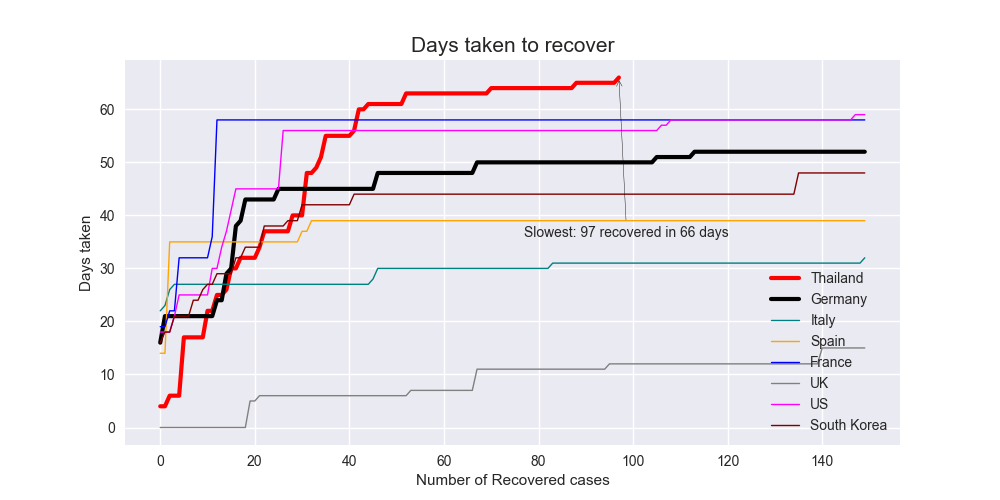
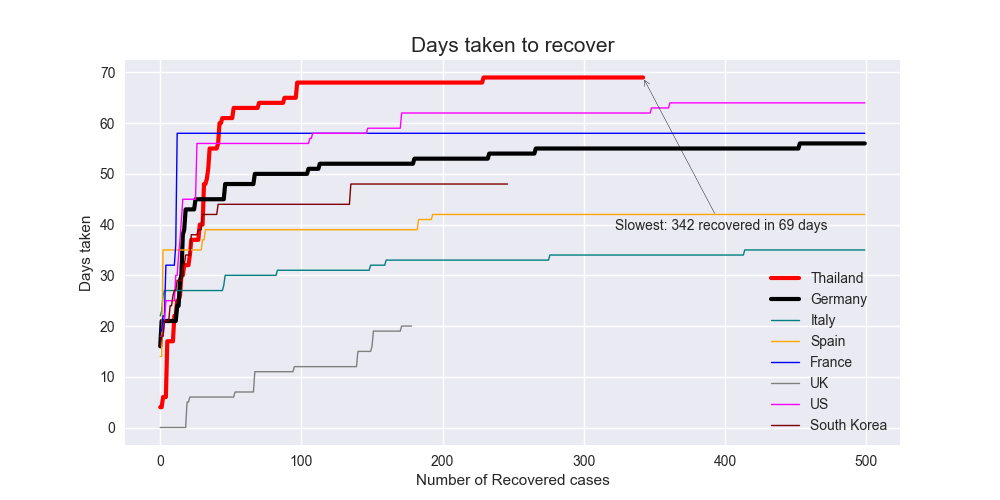
replotted

diff --git a/covid19/plot.py b/covid19/plot.py
@@ -254,7 +254,7 @@ def plot_time_to_recover(figno, step, countries, max_days=None, highlight=[]):
     cnt = step[(step["Country/Region"]==c) & (step["Confirmed"]>=1)]
     cnt.index = np.arange(0, len(cnt)) # Index by num of days from 1st case
 
-    xbasis = np.arange(0,150).tolist()
+    xbasis = np.arange(0,500).tolist()
     ybasis = []
     for nrecovered in xbasis:
       recov = cnt[cnt["Recovered"]>nrecovered]
